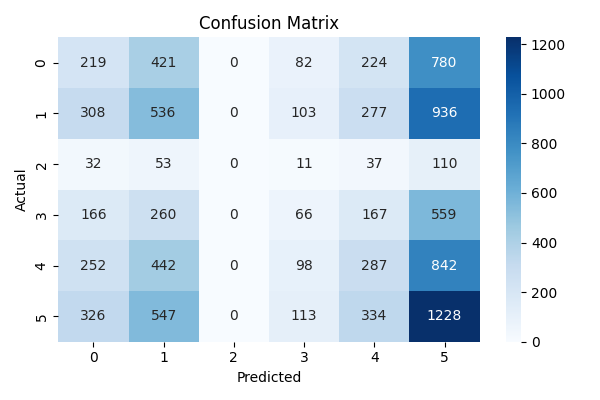
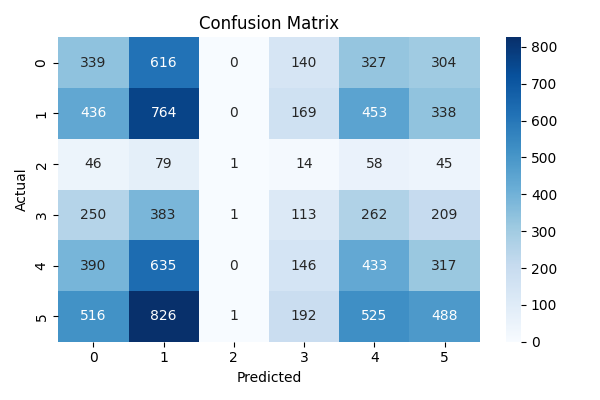
docs(XGBoost.py): Run xgboost classification with auxiliary probabilities (graphgen similarities)
Add normalized average similarities (between testing graphs and meta graphs from each label) to xgboost predict probabilities

diff --git a/XGBoost.py b/XGBoost.py
@@ -20,6 +20,7 @@ if __name__ == '__main__':
     parser.add_argument('--model_name', type=str, default='base_xgboost_model.json', required=True, help='Name of the model file to save/load')
     parser.add_argument('--train_file', type=str, default='./train.csv', required=True, help='Path to the training data directory')
     parser.add_argument('--test_file', type=str, default='./test.csv', required=True, help='Path to the testing data directory')
+    parser.add_argument('--aux_prob', action='store_true', default=False, help='Use auxiliary probabilities (graphgen similarities) for evaluation')
     args = parser.parse_args()
 
     train_df = pd.read_csv(args.train_file)
@@ -51,7 +52,14 @@ if __name__ == '__main__':
         model.save()
 
     # Evaluate performance
-    report, conf_matrix = model.evaluate(X_test, y_test)
+    if args.aux_prob:
+        # Load auxiliary probabilities
+        aux_prob = pd.read_csv("../graphgen/all_norm_avg_sims.csv", header=None)
+        aux_prob = aux_prob.to_numpy()
+        report, conf_matrix = model.evaluate_proba(X_test, y_test, aux_proba=aux_prob)
+    else:
+        # Evaluate without auxiliary probabilities
+        report, conf_matrix = model.evaluate(X_test, y_test)
 
     print("Classification Report:\n", report)
     print("Confusion Matrix:\n", conf_matrix)
